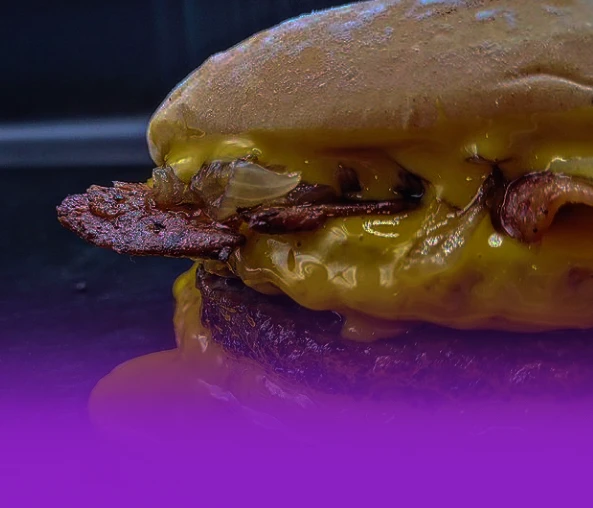
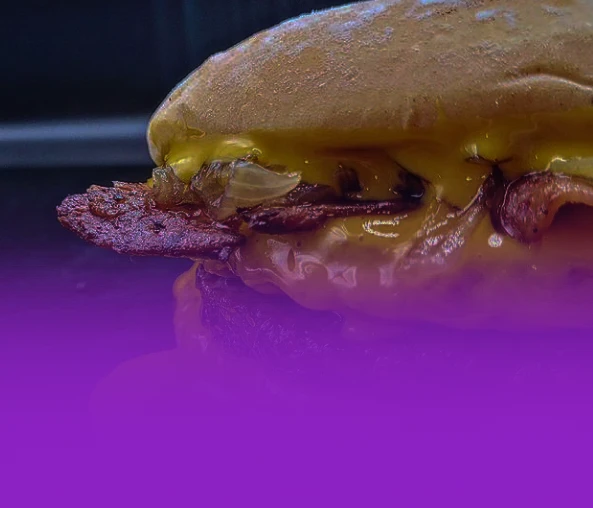
conexion-googleA

diff --git a/index.html b/index.html
@@ -1,6 +1,14 @@
 <html lang="en">
 
 <head>
+  <script async src="https://www.googletagmanager.com/gtag/js?id=G-6T8REYL9JS"></script>
+  <script>
+    window.dataLayer = window.dataLayer || [];
+    function gtag() { dataLayer.push(arguments); }
+    gtag('js', new Date());
+
+    gtag('config', 'G-6T8REYL9JS');
+  </script>
   <meta charset="UTF-8" />
   <meta name="viewport" content="width=device-width, initial-scale=1.0">
   <link rel="shortcut icon" href="./mk-logo-removebg-preview.ico">
@@ -120,7 +128,8 @@
           <div id="subMenuJr" class="sub-menu-jr">
           </div>
 
-          <button class="menu-button main-menu-button" id="botonPromos" onclick="toggleSubMenuPromos()">Promociones</button>
+          <button class="menu-button main-menu-button" id="botonPromos"
+            onclick="toggleSubMenuPromos()">Promociones</button>
           <div id="subMenuPromos" class="sub-menu-promos">
           </div>
 
@@ -142,10 +151,11 @@
           <div id="subMenuWraps" class="sub-menu-wraps">
           </div>
 
-          <button class="menu-button main-menu-button" id="botonSuper" onclick="toggleSubMenuSuper()">Super Smash Bros</button>
+          <button class="menu-button main-menu-button" id="botonSuper" onclick="toggleSubMenuSuper()">Super Smash
+            Bros</button>
           <div id="subMenuSuper" class="sub-menu-super">
           </div>
-          
+
 
           <p id="parrafos-detalles" style="
     text-align: center">Milanesas solo disponibles en sucursales Vlla Martelli y San Andres</p>

diff --git a/style.css b/style.css
@@ -224,11 +224,9 @@ body {
     min-height: 100vh;
     padding-top: 90px;
     box-sizing: border-box;
-    background-image:
-      linear-gradient(to bottom, rgba(255, 255, 255, 0) 70%, transparent),
-      url("./burguer-simple.webp");
+    background-image: url("./burguer-simple.webp");
     background-size: cover;
-    background-position: center;
+    background-position: left;
     display: flex;
     flex-direction: column;
     align-items: center;
